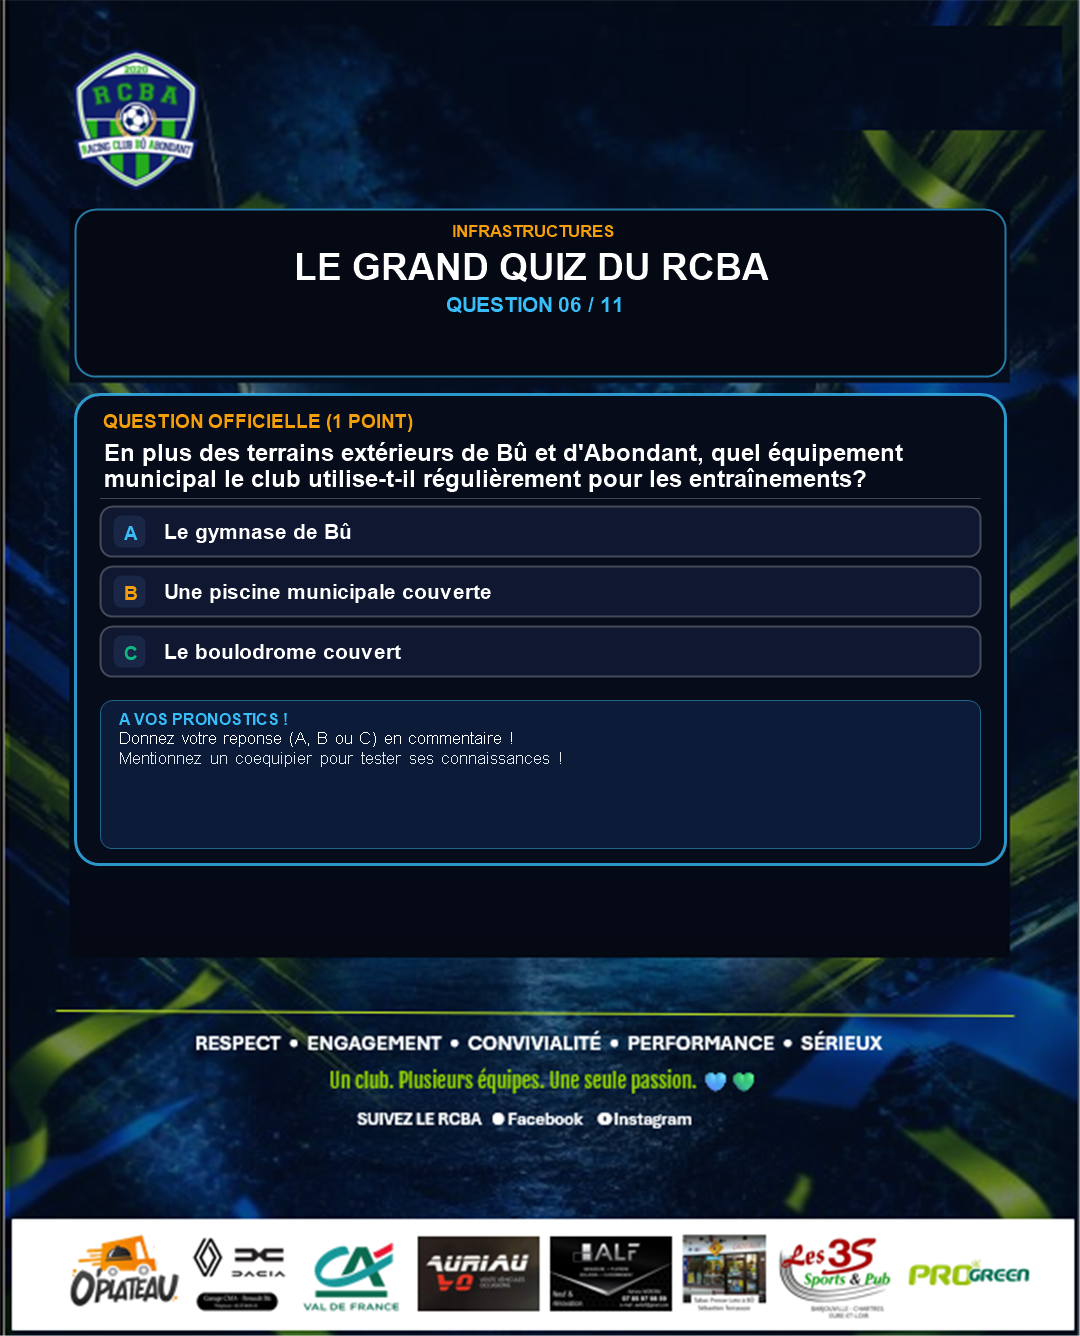
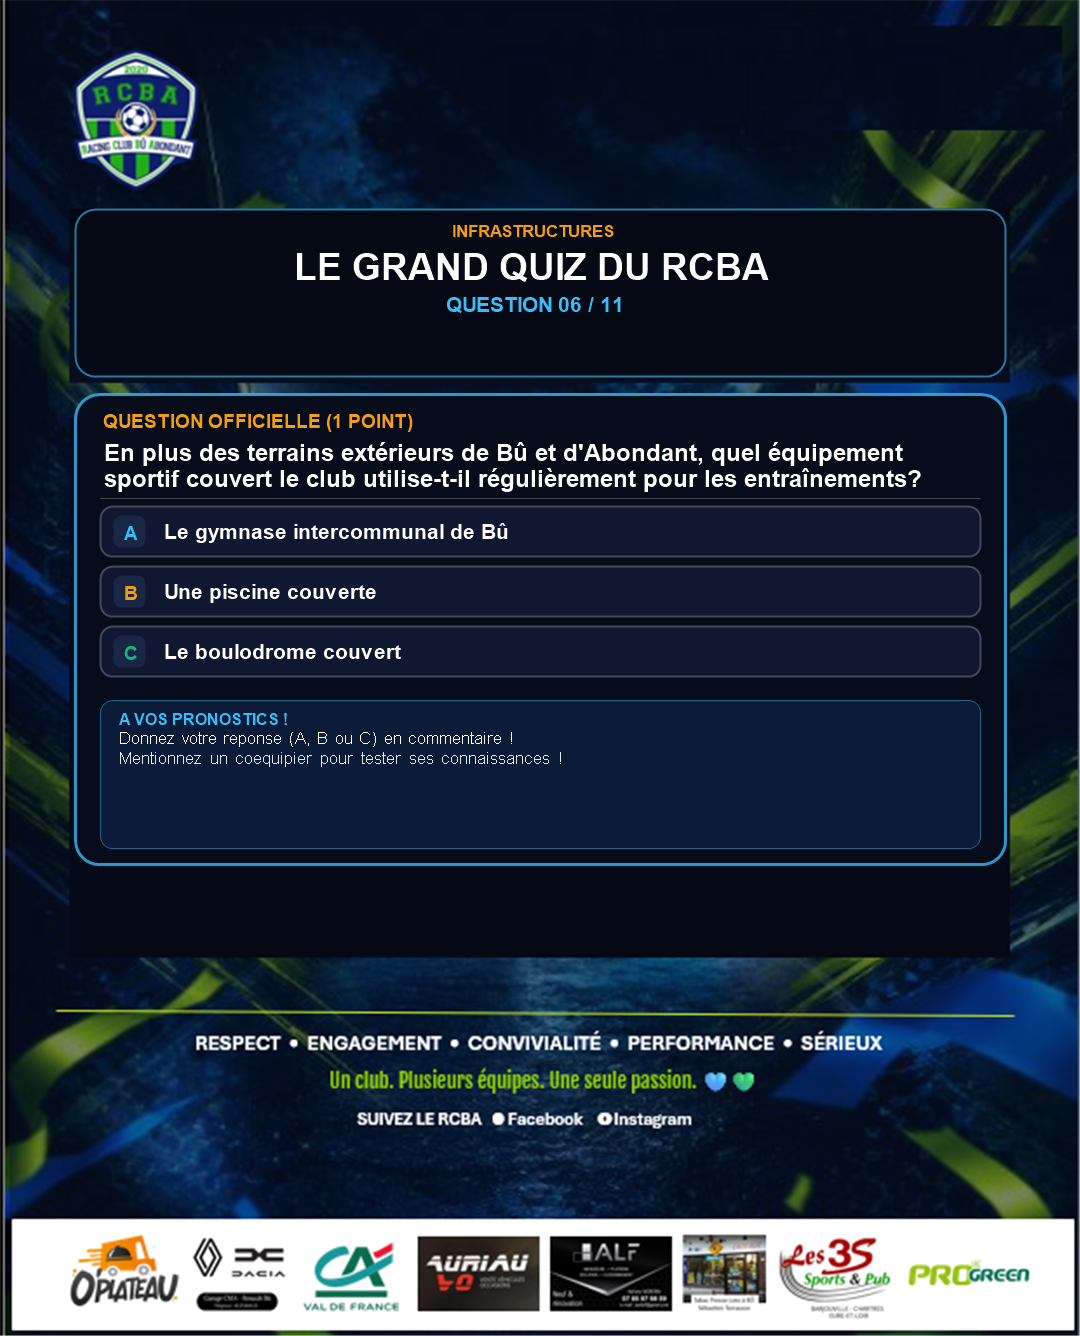
Correction: Restauration du fond officiel et des questions initiales du RCBA Football (Bu-Abondant)

Changed region(s): [[0.0917, 0.3376, 0.8556, 0.399], [0.275, 0.4296, 0.4583, 0.4603]]

diff --git a/index.html b/index.html
@@ -45,10 +45,12 @@
       font-family: 'Inter', sans-serif;
       background-color: #030712;
       background-image: 
-        radial-gradient(ellipse at 50% 0%, rgba(28, 100, 242, 0.30) 0%, transparent 60%),
-        radial-gradient(circle at 15% 25%, rgba(56, 189, 248, 0.15) 0%, transparent 45%),
-        radial-gradient(circle at 85% 25%, rgba(28, 100, 242, 0.18) 0%, transparent 45%),
-        radial-gradient(ellipse at 50% 90%, rgba(16, 185, 129, 0.12) 0%, transparent 60%);
+        linear-gradient(to bottom, rgba(3, 7, 18, 0.40) 0%, rgba(3, 7, 18, 0.15) 45%, rgba(3, 7, 18, 0.65) 100%),
+        url('assets/fond_clean.png');
+      background-size: cover;
+      background-position: center top;
+      background-repeat: no-repeat;
+      background-attachment: fixed;
       color: #ffffff;
       margin: 0;
       padding: 0;
@@ -458,94 +460,94 @@
         ],
         answer: "B",
         answerText: "Bû et Abondant",
-        explanation: "Le RCBA est né de la fusion fraternelle en 1999 entre l'Union Sportive de Bû et l'Amicale Sportive d'Abondant pour unir leurs forces !",
-        funFact: "En 2026, le club célèbre plus de 25 ans d'histoire commune et plus de 450 licenciés !",
+        explanation: "Le Racing Club Bû Abondant réunit nos deux communes d'Eure-et-Loir pour faire rayonner le football local !",
+        funFact: "Près de 450 passionnés portent fièrement les couleurs bleu et gris chaque week-end !",
         hook: "🔵🔘 CONNAISSEZ-VOUS VRAIMENT LE RCBA ? On commence avec les fondations !"
       },
       {
         id: 2,
         title: "Question 02 / 11",
-        theme: "HISTOIRE DU CLUB",
-        question: "En quelle année précise la fusion officielle donnant naissance au Racing Club Bû Abondant a-t-elle eu lieu ?",
+        theme: "EFFECTIFS DU CLUB",
+        question: "À combien estime-t-on globalement le nombre de licenciés au sein de la grande famille du club ?",
         options: [
-          { id: "A", text: "1985" },
-          { id: "B", text: "1999" },
-          { id: "C", text: "2010" }
+          { id: "A", text: "Environ 200 licenciés" },
+          { id: "B", text: "Autour de 350 licenciés" },
+          { id: "C", text: "Environ 450 licenciés" }
         ],
-        answer: "B",
-        answerText: "1999",
-        explanation: "C'est à l'aube du nouveau millénaire, en 1999, que les dirigeants des deux communes ont officialisé cette belle aventure sportive commune.",
-        funFact: "Un quart de siècle plus tard, les deux communes vibrent toujours au même rythme chaque week-end !",
-        hook: "⏳ RETOUR AUX SOURCES : Les vrais supporters connaissent cette date par cœur !"
+        answer: "C",
+        answerText: "Environ 450 licenciés",
+        explanation: "Près de 450 passionnés (école de foot, seniors, féminines, vétérans, bénévoles) font battre le coeur du club !",
+        funFact: "Une immense famille sportive rassemblant petits et grands sur et en dehors des terrains !",
+        hook: "👥 LA GRANDE FAMILLE DU RCBA : Quel est le volume de licenciés qui font vivre nos terrains ?"
       },
       {
         id: 3,
         title: "Question 03 / 11",
-        theme: "INFRASTRUCTURES & TERRAINS",
-        question: "Où se situent les installations sportives et terrains d'entraînement mis à disposition des équipes du RCBA ?",
+        theme: "RAYONNEMENT DU CLUB",
+        question: "Où se situe approximativement le RCBA en termes de volume de licenciés par rapport aux autres clubs du 28 ?",
         options: [
-          { id: "A", text: "Uniquement sur la commune de Bû" },
-          { id: "B", text: "Sur les deux communes, à Bû et à Abondant" },
-          { id: "C", text: "Sur un complexe délocalisé à Dreux" }
+          { id: "A", text: "Dans le Top 5 départemental" },
+          { id: "B", text: "Dans la moyenne basse du département" },
+          { id: "C", text: "En milieu de tableau (entre la 20e et la 30e place)" }
         ],
-        answer: "B",
-        answerText: "Sur les deux communes, à Bû et à Abondant",
-        explanation: "Fidèle à son ADN de club bicommunal, le RCBA utilise pleinement les complexes sportifs et vestiaires des deux municipalités partenaires.",
-        funFact: "Cette double implantation offre des créneaux idéaux pour nos jeunes de l'École de Foot et nos seniors !",
-        hook: "🏟 SUR LES PELOUSES DU CLUB : Où jouent nos guerriers le week-end ?"
+        answer: "A",
+        answerText: "Dans le Top 5 départemental",
+        explanation: "Le RCBA figure fièrement dans le Top 5 des clubs d'Eure-et-Loir en nombre de licenciés !",
+        funFact: "Une vraie référence sportive en Eure-et-Loir grâce à l'investissement constant de ses éducateurs.",
+        hook: "📊 RAYONNEMENT DÉPARTEMENTAL : À quel rang se classe le RCBA parmi les clubs d'Eure-et-Loir ?"
       },
       {
         id: 4,
         title: "Question 04 / 11",
-        theme: "ÉVÉNEMENT MAJEUR",
-        question: "Comment s'intitule le grand tournoi de jeunes incontournable organisé chaque saison au printemps par le RCBA ?",
+        theme: "LABELS FÉDÉRAUX FFF",
+        question: "Le club a reçu une double labélisation officielle de la FFF (Jeunes & Féminines). Que récompensent ces labels ?",
         options: [
-          { id: "A", text: "Le Tournoi Jean-Claude Poisson" },
-          { id: "B", text: "Le Challenge de la Forêt" },
-          { id: "C", text: "La Coupe d'Eure-et-Loir Jeunes" }
+          { id: "A", text: "La qualité de la formation, de l'accueil et de l'encadrement" },
+          { id: "B", text: "Le nombre de buts marqués par l'équipe première" },
+          { id: "C", text: "La modernité exclusive des équipements et des buvettes" }
         ],
         answer: "A",
-        answerText: "Le Tournoi Jean-Claude Poisson",
-        explanation: "Le mythique Tournoi Jean-Claude Poisson rassemble des dizaines d'équipes et des centaines de jeunes footballeurs dans une ambiance festive et sportive !",
-        funFact: "Un hommage vibrant et durable à une grande figure qui a tant donné pour les jeunes et le football local !",
-        hook: "🏆 TOURNOI EMBLÉMATIQUE DU RCBA : Quel est le nom de cette grande fête du football ?"
+        answerText: "La qualité de la formation, de l'accueil et de l'encadrement",
+        explanation: "Une distinction fédérale d'excellence saluant la formation et l'encadrement exemplaire de nos éducateurs diplômés.",
+        funFact: "Ces labels FFF garantissent un cadre d'apprentissage sécurisé, bienveillant et structuré pour tous les enfants.",
+        hook: "⭐ DISTINCTION FFF : Que récompense cette prestigieuse double labélisation officielle ?"
       },
       {
         id: 5,
         title: "Question 05 / 11",
-        theme: "SECTIONS FÉMININES",
-        question: "À quelle catégorie d'âge s'adresse principalement le pôle de football féminin au sein du RCBA ?",
+        theme: "FOOTBALL FÉMININ",
+        question: "Outre les équipes masculines et l'école de foot, quel type d'équipe féminine senior a vu le jour au RCBA ?",
         options: [
-          { id: "A", text: "Uniquement les vétéranes de plus de 45 ans" },
-          { id: "B", text: "Des catégories de jeunes filles jusqu'aux seniors féminines" },
-          { id: "C", text: "Il n'y a aucune pratique féminine au club" }
+          { id: "A", text: "Une équipe professionnelle en D1 Arkema" },
+          { id: "B", text: "Une équipe féminine loisir" },
+          { id: "C", text: "Une équipe de beach-soccer" }
         ],
         answer: "B",
-        answerText: "Des catégories de jeunes filles jusqu'aux seniors féminines",
-        explanation: "Le football féminin est une immense fierté au RCBA avec des équipes engagées des catégories U11/U13 jusqu'à nos seniors féminines !",
-        funFact: "Le RCBA encourage activement la mixité et la formation des joueuses dès le plus jeune âge !",
-        hook: "⚽ LE FOOTBALL POUR TOUTES : Le pôle féminin du RCBA est en plein essor !"
+        answerText: "Une équipe féminine loisir",
+        explanation: "Le foot au féminin dans la bonne humeur ! Notre équipe loisir incarne le plaisir et la convivialité du RCBA.",
+        funFact: "L'esprit d'équipe et la passion avant tout pour ces joueuses qui font rayonner le club !",
+        hook: "🌸 FOOTBALL POUR TOUTES : Quelle section féminine senior fait vibrer le RCBA ?"
       },
       {
         id: 6,
         title: "Question 06 / 11",
-        theme: "ÉQUIPEMENTS & PRATIQUE",
-        question: "Quel équipement sportif couvert d'Abondant accueille les entraînements hivernaux de nos jeunes pousses ?",
+        theme: "INFRASTRUCTURES",
+        question: "En plus des terrains extérieurs de Bû et d'Abondant, quel équipement sportif couvert le club utilise-t-il régulièrement pour les entraînements ?",
         options: [
-          { id: "A", text: "Le Gymnase municipal des Clos" },
-          { id: "B", text: "La Halle couverte des sports" },
-          { id: "C", text: "Le Palais omnisports départemental" }
+          { id: "A", text: "Le gymnase intercommunal de Bû" },
+          { id: "B", text: "Une piscine couverte" },
+          { id: "C", text: "Le boulodrome couvert" }
         ],
         answer: "A",
-        answerText: "Le Gymnase municipal des Clos",
-        explanation: "Le Gymnase des Clos d'Abondant permet aux éducateurs de maintenir des séances dynamiques et au sec pour nos jeunes pousses durant la trêve d'hiver.",
-        funFact: "La pratique en salle développe considérablement la vivacité technique et la vitesse de prise de décision !",
-        hook: "❄ Quand l'hiver arrive, où nos pépites s'entraînent-elles au chaud ? Votez en commentaire !"
+        answerText: "Le gymnase intercommunal de Bû",
+        explanation: "Le gymnase intercommunal de Bû permet à nos licenciés de s'entraîner au chaud l'hiver et de pratiquer le futsal !",
+        funFact: "Idéal pour perfectionner la vivacité technique et le jeu en une touche pendant les grands froids.",
+        hook: "❄ ENTRAÎNEMENTS D'HIVER : Quel équipement couvert permet à nos joueurs de garder le rythme ?"
       },
       {
         id: 7,
         title: "Question 07 / 11",
-        theme: "VIE DU CLUB & TRADITION",
+        theme: "TRADITION & CONVIVIALITÉ",
         question: "Quel est le rituel sacré et incontournable après un match ou un entraînement au club ?",
         options: [
           { id: "A", text: "Une séance de yoga silencieuse dans les vestiaires" },
@@ -554,15 +556,15 @@
         ],
         answer: "B",
         answerText: "Le passage obligé par la buvette pour refaire le match",
-        explanation: "C'est l'ADN même du football amateur ! La buvette est le cœur battant du RCBA où supporters, joueurs, bénévoles et adversaires refont le match autour d'un verre et de frites chaudes.",
-        funFact: "Le seul endroit où les buts ratés se transforment en tirs sur la barre transversale !",
-        hook: "🍻 LE RITUEL SACRÉ DU RCBA ! Avouez, vous avez tous la réponse..."
+        explanation: "L'ADN du football amateur ! La buvette est le coeur battant du club pour refaire le match autour d'un verre.",
+        funFact: "Le lieu mythique où tous les buts manqués se transforment en frappes sur la lucarne !",
+        hook: "🍻 LE RITUEL SACRÉ : Quel moment convivial réunit obligatoirement tout le club le week-end ?"
       },
       {
         id: 8,
         title: "Question 08 / 11",
-        theme: "INSTITUTIONS & DISTRICT",
-        question: "Sur un plan institutionnel, à quelle instance départementale le RCBA est-il rattaché pour ses championnats officiels ?",
+        theme: "INSTITUTIONS OFFICIELLES",
+        question: "Sur un plan institutionnel, à quelle instance départementale le RCBA est-il rattaché pour ses championnats ?",
         options: [
           { id: "A", text: "Le District d'Eure-et-Loir de Football" },
           { id: "B", text: "La Ligue de Paris Île-de-France" },
@@ -570,14 +572,14 @@
         ],
         answer: "A",
         answerText: "Le District d'Eure-et-Loir de Football",
-        explanation: "Le RCBA dispute l'ensemble de ses compétitions départementales sous l'égide du District d'Eure-et-Loir (28), affilié à la Ligue Centre-Val de Loire de Football.",
-        funFact: "Fiers de représenter le nord de l'Eure-et-Loir sur toutes les pelouses du département !",
-        hook: "🏛 FOOTBALL OFFICIEL : Sous quelle bannière départementale nos équipes mouillent-elles le maillot ?"
+        explanation: "Le RCBA évolue sous l'égide du District d'Eure-et-Loir (28) au sein de la Ligue Centre-Val de Loire !",
+        funFact: "Nos équipes sillonnent les pelouses du 28 chaque week-end pour défendre les couleurs du club.",
+        hook: "🏛 FOOTBALL DÉPARTEMENTAL : À quel District officiel le club est-il affilié ?"
       },
       {
         id: 9,
         title: "Question 09 / 11",
-        theme: "COULEURS & IDENTITÉ",
+        theme: "COULEURS OFFICIELLES",
         question: "Quelles sont les teintes principales qui habillent traditionnellement les tenues du club lors des dernières saisons ?",
         options: [
           { id: "A", text: "Du vert et du jaune fluo" },
@@ -586,9 +588,9 @@
         ],
         answer: "B",
         answerText: "Du bleu roi et du gris",
-        explanation: "Le bleu roi et le gris argenté constituent les couleurs emblématiques de nos tuniques officielles, assorties des touches de vert symbolisant nos racines de Bû et Abondant.",
-        funFact: "Des couleurs portées fièrement par nos 450 licenciés le samedi et le dimanche !",
-        hook: "🔵🔘 NOS COULEURS, NOTRE FIERTÉ ! Quelle est la parure historique de nos guerriers ?"
+        explanation: "Le bleu roi et le gris argenté : nos couleurs emblématiques, portées avec fierté sur tous les terrains !",
+        funFact: "Une identité visuelle forte et élégante reconnue sur toutes les pelouses du département.",
+        hook: "🔵🔘 FIERS DE NOS COULEURS : Quelles sont les teintes officielles des maillots du RCBA ?"
       },
       {
         id: 10,
@@ -597,19 +599,19 @@
         question: "Quelle est la particularité logistique majeure de la gestion quotidienne d'un club bicommunal comme le RCBA ?",
         options: [
           { id: "A", text: "Il n'y a qu'un seul vestiaire pour tout le monde" },
-          { id: "B", text: "Il faut jongler en permanence entre les installations et les plannings des mairies de Bû et d'Abondant" },
-          { id: "C", text: "Les matchs se jouent obligatoirement sur terrain neutre à l'extérieur" }
+          { id: "B", text: "Jongler en permanence entre les installations et plannings de Bû et d'Abondant" },
+          { id: "C", text: "Les matchs se jouent obligatoirement sur terrain neutre" }
         ],
         answer: "B",
-        answerText: "Il faut jongler en permanence entre les installations et les plannings des mairies de Bû et d'Abondant",
-        explanation: "Deux communes distantes de quelques kilomètres, deux complexes sportifs, deux équipes municipales ! Cela requiert une coordination millimétrée de nos dirigeants bénévoles.",
-        funFact: "Un véritable casse-tête chaque semaine pour que chaque équipe ait son créneau de terrain et son vestiaire !",
-        hook: "🧩 DANS LES COULISSES DU RCBA : Quel est le défi quotidien de nos bénévoles et dirigeants ?"
+        answerText: "Jongler en permanence entre les installations et plannings de Bû et d'Abondant",
+        explanation: "Deux mairies, deux stades, deux plannings : une vraie prouesse menée chaque semaine par nos bénévoles !",
+        funFact: "Un dévouement sans faille de nos dirigeants pour offrir le meilleur encadrement à tous les licenciés.",
+        hook: "⚙ COULISSES DU CLUB : Quel est le défi logistique relevé chaque jour par nos bénévoles ?"
       },
       {
         id: 11,
         title: "Question 11 / 11",
-        theme: "VESTIAIRES & MATCHDAY",
+        theme: "MATCHDAY & VESTIAIRES",
         question: "Comment appelle-t-on le moment crucial où l'entraîneur rassemble tout le monde dans les vestiaires avant le coup d'envoi ?",
         options: [
           { id: "A", text: "La sieste tactique" },
@@ -618,9 +620,9 @@
         ],
         answer: "B",
         answerText: "La causerie d'avant-match",
-        explanation: "C'est l'instant où le silence se fait, où les regards se croisent et où le coach délivre la tactique, l'envie et la flamme avant d'entrer dans l'arène !",
-        funFact: "Un moment mythique où se forgent les victoires collectives et la cohésion d'équipe !",
-        hook: "🔥 LE MOMENT DU FRISSON : Comment s'appelle ce rituel de vestiaire juste avant de rentrer sur le terrain ?"
+        explanation: "La mythique causerie ! L'instant où montent la motivation, les consignes tactiques et l'envie collective.",
+        funFact: "Le moment d'émotion pure où le vestiaire se transforme en une seule et même équipe prête au combat !",
+        hook: "🔥 DERNIÈRES MINUTES AVANT LE COUP D'ENVOI : Quel est ce rituel clé dans le vestiaire ?"
       }
     ];
 

diff --git a/README.md b/README.md
@@ -14,7 +14,7 @@ Ce projet a été conçu pour animer la communauté des supporters, licenciés, 
 
 ### 🎮 Deux Modes en Un :
 1. **Mode Joueur Interactif (Quiz Direct)** :
-   * 11 questions thématiques couvrant la fusion historique de 1999, les infrastructures (Bû et Abondant), le tournoi Jean-Claude Poisson, les catégories féminines, les bénévoles et les valeurs du club.
+   * 11 questions officielles du club : fondation bicommunale Bû-Abondant, 450 licenciés, Top 5 en Eure-et-Loir, double labélisation FFF (Jeunes & Féminines), section féminine loisir, gymnase intercommunal de Bû, rituel de la buvette, affiliation District 28, tenues bleu roi et gris, gestion logistique et causerie d'avant-match.
    * **Enchaînement automatique & irréversible** : Dès le clic sur une option (A, B ou C), le choix est verrouillé sans retour arrière possible, affichant la validation et l'anecdote club, avant de passer automatiquement à la question suivante après 1,4 s.
    * **Grand Écran de Palmarès & Résultats** : Calcul du score officiel sur 11, attribution d'un rang club certifié, récapitulatif complet des 11 questions et bouton de partage formaté pour les réseaux sociaux.
 
